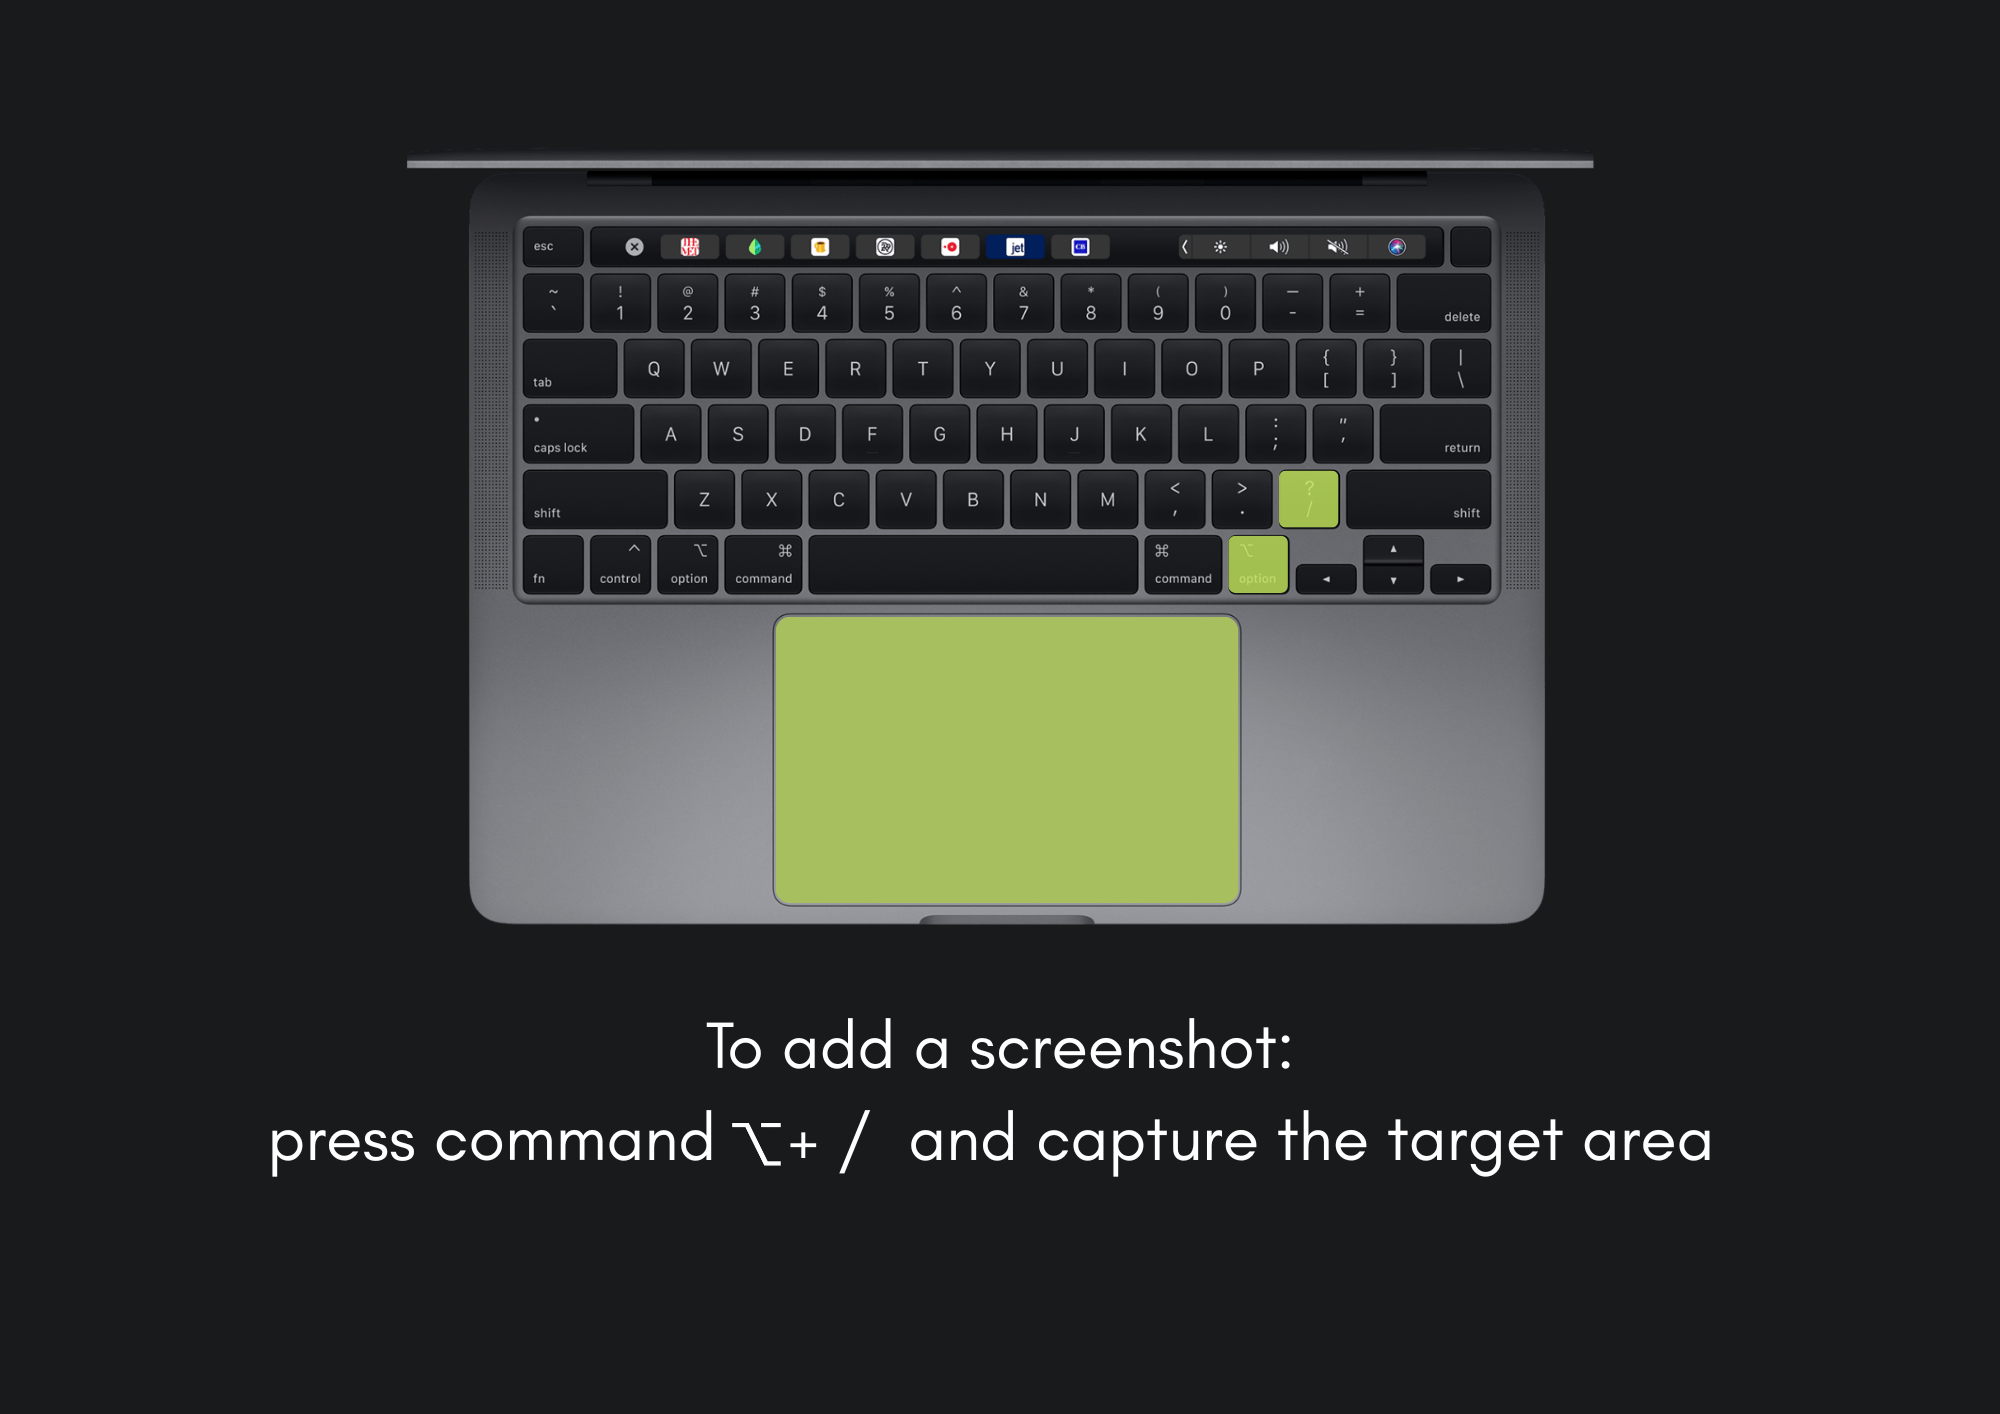
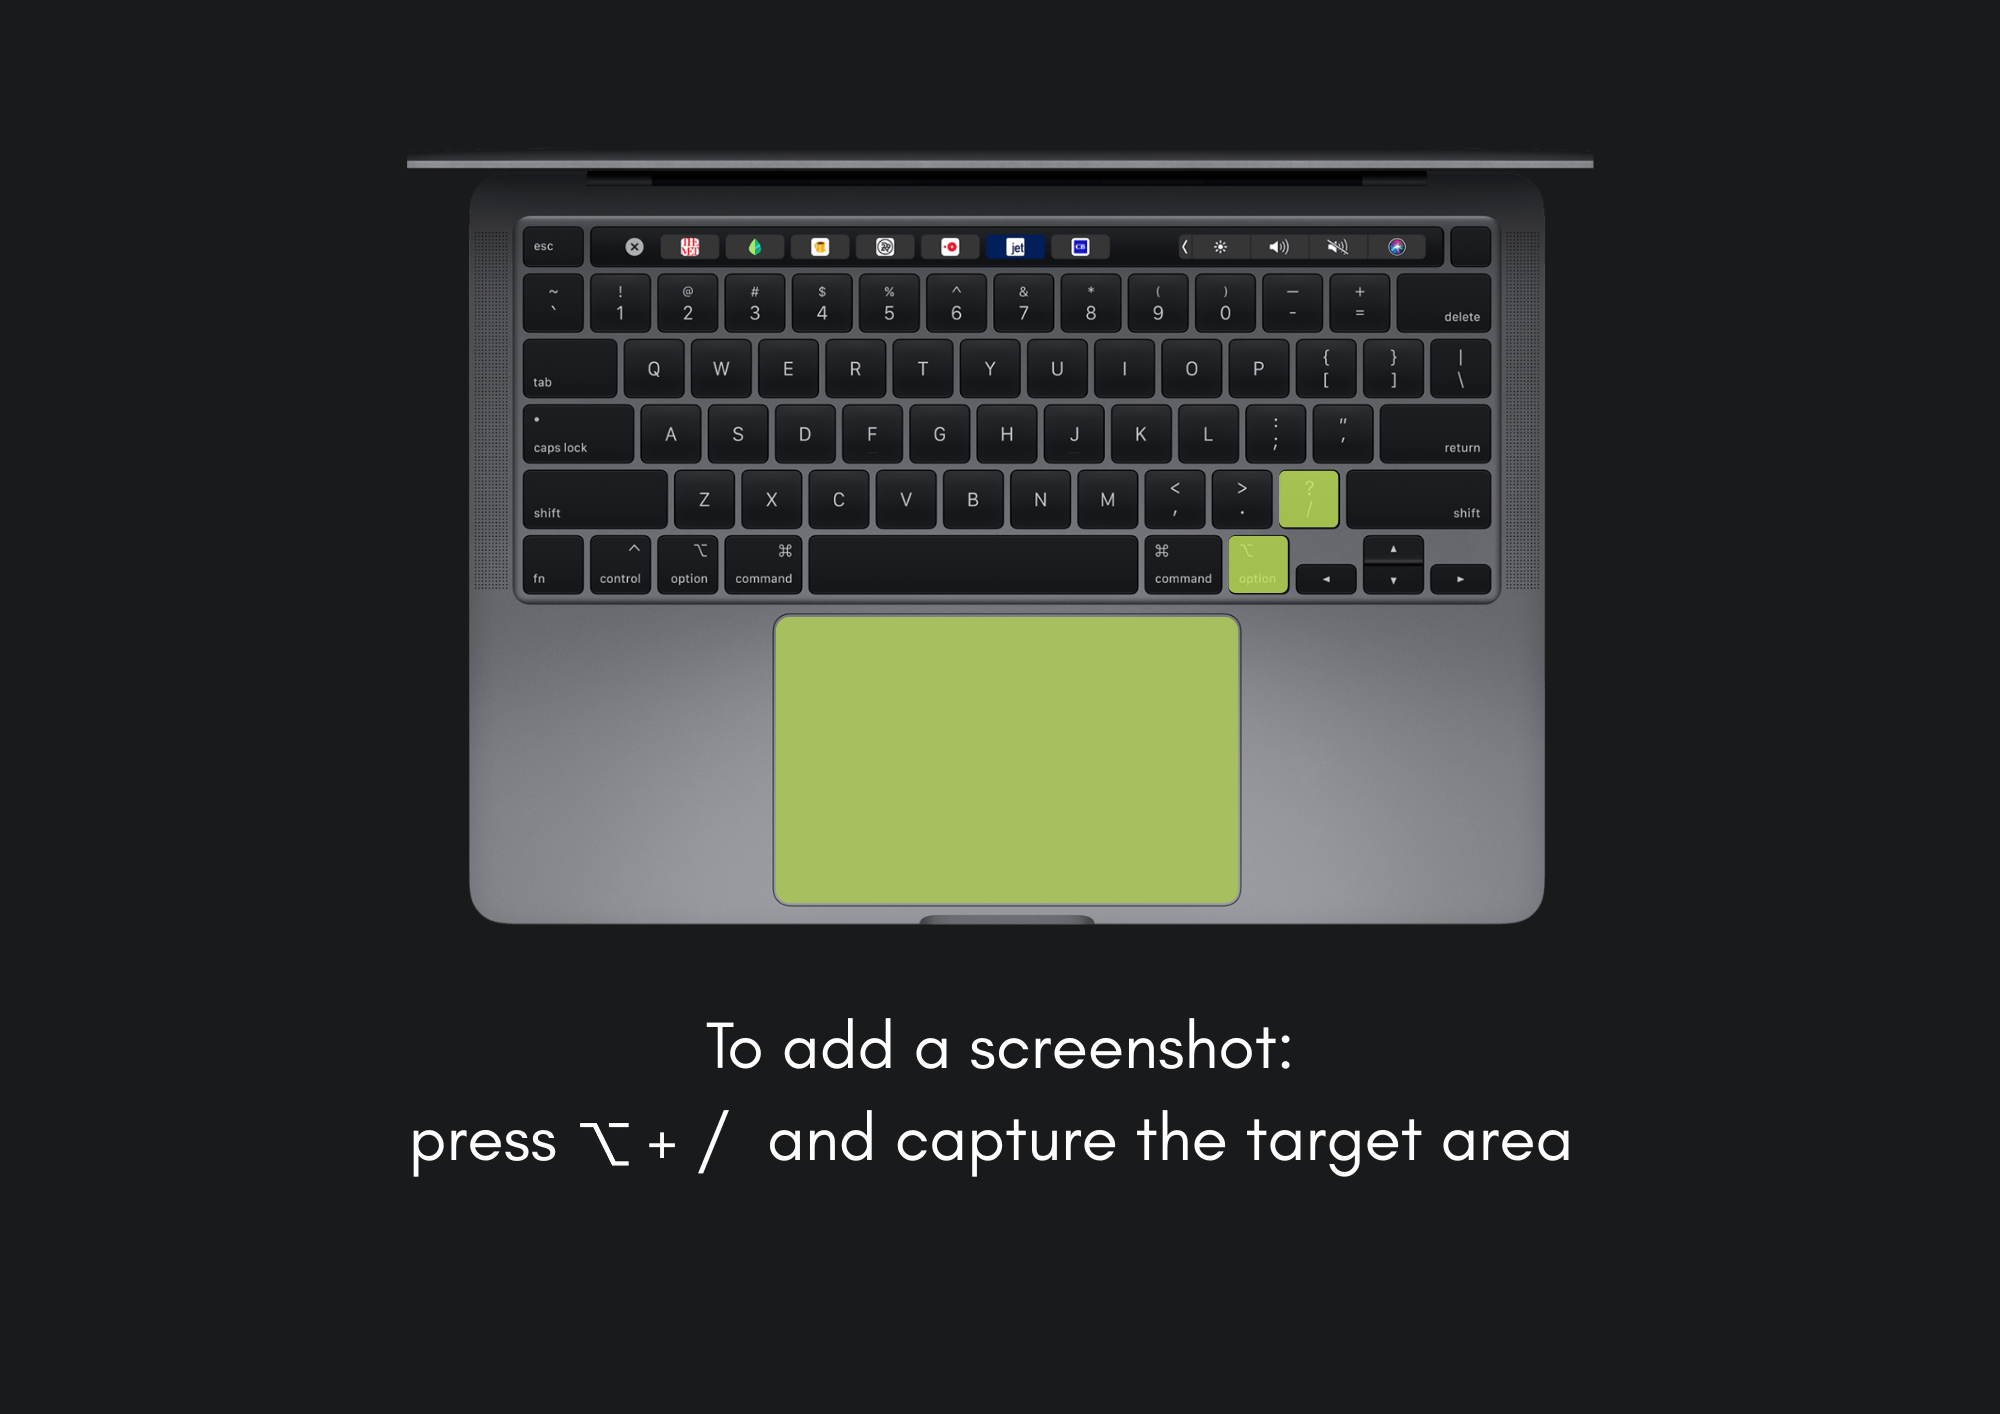
Added full screen screenshot shortcut

Changed region(s): [[0.124, 0.7779, 0.868, 0.8402]]

diff --git a/macOS/Anypaste/ScreenshotManager.swift b/macOS/Anypaste/ScreenshotManager.swift
@@ -12,39 +12,47 @@ final class ScreenshotManager {
 
     func start() {
         monitor = NSEvent.addGlobalMonitorForEvents(matching: [.keyDown]) { [weak self] event in
+            // Check if our base keys (Option + /) are pressed
             guard let self, event.keyCode == self.slashKeyCode,
                   event.modifierFlags.contains(.option) else { return }
-            self.captureArea()
+            
+            // If Shift is ALSO held, trigger a full-screen capture
+            if event.modifierFlags.contains(.shift) {
+                self.captureFullScreen()
+            } else {
+                self.captureArea()
+            }
         }
-    }
-
-    func stop() {
-        if let monitor {
-            NSEvent.removeMonitor(monitor)
-        }
-        monitor = nil
     }
 
     private func captureArea() {
+        // -i opens the interactive selection tool
+        performCapture(arguments: ["-i", "-c"], isFullScreen: false)
+    }
+
+    private func captureFullScreen() {
+        // Running screencapture without -i instantly captures the whole screen
+        performCapture(arguments: ["-c"], isFullScreen: true)
+    }
+
+    private func performCapture(arguments: [String], isFullScreen: Bool) {
         let pasteboard = NSPasteboard.general
         let previousChangeCount = pasteboard.changeCount
 
-        // screencapture -i blocks until the user finishes dragging a selection
-        // -c sends the result straight to the clipboard
         DispatchQueue.global(qos: .userInitiated).async {
             let task = Process()
             task.executableURL = URL(fileURLWithPath: "/usr/sbin/screencapture")
-            task.arguments = ["-i", "-c"]
+            task.arguments = arguments
             try? task.run()
             task.waitUntilExit()
 
             DispatchQueue.main.async {
                 guard pasteboard.changeCount != previousChangeCount,
                       let imageData = self.pngData(from: pasteboard) else {
-                    // User pressed Esc to cancel — nothing landed on the clipboard.
-                    return
+                    return // User cancelled or capture failed
                 }
-                DestinationFileManager.shared.appendImage(imageData)
+                // Pass the image data and the flag to the updated DestinationFileManager
+                DestinationFileManager.shared.appendImage(imageData, isFullScreen: isFullScreen)
             }
         }
     }

diff --git a/macOS/Anypaste/DestinationFileManager.swift b/macOS/Anypaste/DestinationFileManager.swift
@@ -92,9 +92,8 @@ final class DestinationFileManager {
         appendRaw(text.trimmingCharacters(in: .whitespacesAndNewlines) + "\n\n")
     }
 
-    /// Saves screenshot data next to the destination file and appends an HTML image link
-    /// to strictly maintain the original on-screen dimensions.
-    func appendImage(_ imageData: Data) {
+    /// Saves screenshot data next to the destination file and appends a centered HTML image link.
+    func appendImage(_ imageData: Data, isFullScreen: Bool) {
         guard let fileURL = currentFileURL else { return }
 
         let assetsFolder = fileURL.deletingLastPathComponent().appendingPathComponent("AnypasteAssets")
@@ -108,17 +107,15 @@ final class DestinationFileManager {
         do {
             try imageData.write(to: imageURL)
             
-            // Extract the true dimensions of the screenshot
-            if let image = NSImage(data: imageData) {
-                let explicitWidth = Int(image.size.width)
+            // Define the HTML image tag based on the capture type
+            let imgTag = isFullScreen
+                ? "<img src=\"AnypasteAssets/\(imageName)\" width=\"900\">"
+                : "<img src=\"AnypasteAssets/\(imageName)\">"
                 
-                // Inject an HTML tag with the explicit width instead of the standard ![]() syntax
-                appendRaw("<img src=\"AnypasteAssets/\(imageName)\" width=\"\(explicitWidth)\">\n\n")
-            } else {
-                // Fallback just in case NSImage fails to initialize
-                appendRaw("![](AnypasteAssets/\(imageName))\n\n")
-            }
+            // Wrap the image in a centered paragraph tag
+            let formattedOutput = "<p align=\"center\">\n  \(imgTag)\n</p>\n\n"
             
+            appendRaw(formattedOutput)
         } catch {
             NSLog("Anypaste: failed to save screenshot – \(error)")
         }

diff --git a/README.md b/README.md
@@ -26,9 +26,18 @@
   <img src="assets/screenshotinstruction.png" alt="Pasting screenshots" width="49%">
 </div>
 
+<div align="center">
+  <img src="assets/fullscreenscreenshotinstruction.png" alt="Pasting screenshots" width="49%">
+</div>
+
 ## Features
 * ***Menu Bar Agent***: Runs quietly in the background without cluttering your Dock. Easy access from the menu bar (look up :).
-* ***Quick Capture***: press `function` and highlight text to append text to your choice of file, and `(⌥ + /)` keys to grab a screenshot, and it seamlessly appends to your designated file. 
+* ***Quick Capture***: Easy commands, and everything seamlessly appends to your designated file.
+
+  Press:
+  1. `function` and highlight text to append text to your choice of file
+  2. `(⌥ + /)` keys to grab a screenshot of custom size
+  3.  `(⌥ + shift + /)` to grab a full screen screenshot
 * ***Pixel-Perfect:*** Anypaste doesn't mess with your image dimensions. The image size in your Markdown file maps exactly to your screen capture, pixel by pixel, preserving original fidelity without unwanted scaling.
 * ***Native macOS Aesthetics***: Features a custom-designed metallic icon and smooth crossfade animations.
 * ***Zero Friction***: Built for students, researchers, developers, and writers who need to learn and collect data at the speed of thought.
@@ -45,6 +54,8 @@
   * **Quickly open the current file being appended by pressing command + option + O**
 ---
   * **Demonstration**:
+
+    note: full screen screenshot not shown in this demo since it was added in a later version
 
 <div align="center">
   <img src="assets/output.gif" alt="Working">